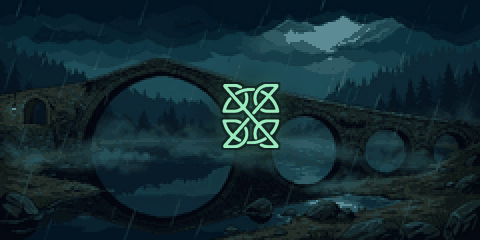
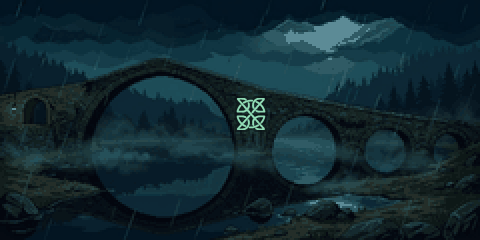
Icona Vortex, simbolo ponte sogno inciso, Mia senza versi di Nick e miagolio piu forte, rumori officina caotici; build 18 nov 19:10

Changed region(s): [[0.4375, 0.3208, 0.5938, 0.6417]]

diff --git a/js/scena-capitolo2.js b/js/scena-capitolo2.js
@@ -129,17 +129,18 @@ function stella(gg,x,y,k){   // luccichio: croce di luce che pulsa
 const MIA={fatto:false};
 function vaiLibero(m,x,y){return new Promise(r=>{m.path=[[x,y]];m.arrivo=null;const iv=setInterval(()=>{if(!m.path.length){clearInterval(iv);r()}},60)})}
 /* (17 nov) quando Mia miagola Nick si toglie il cappello e si gratta la testa (pose cap_1..5 dall'atlante) */
-function gagCappello(s){const p=s.giocatore;if(!p||!p.has||!p.has('cap_1'))return;
+function gagCappello(s,muto){const p=s.giocatore;if(!p||!p.has||!p.has('cap_1'))return;
   p.fermaCamminata&&p.fermaCamminata(false);p.dir='S';p.axe=false;p.state='act';
   p.seq=[['cap_1',.55],['cap_2',.5],['cap_3',.42],['cap_4',.42],['cap_3',.42],['cap_2',.42],['cap_4',.42],['cap_5',.7],['#',0]];p.si=0;p.st=0;
+  if(muto)return;   // con Mia Nick non emette versi: si sente solo il miagolio
   FIATO.suona('protagonista-esterno','sorpresa',1,1);setTimeout(()=>FIATO.suona('protagonista-esterno','dubbio',1,.9),1500)}
 async function passaMia(s){
   const m=s.attori&&s.attori.mia;if(!m){MIA.fatto=true;return}
   m.x=262;m.y=116;m.dir='W';m.corsa=false;m.vel=22;m.visibile=true;
   await vaiLibero(m,122,116);                       // attraversa fino al centro
   m.dir='S';await pausa(.7);                        // si gira verso chi guarda
-  try{A.motore.suonaClip('audio/versi/miao_mia_v3.mp3')}catch(e){}
-  gagCappello(s);
+  try{A.motore.suonaClip('audio/versi/miao_mia_v4.mp3',1.2)}catch(e){}
+  gagCappello(s,true);
   m.talking=true;const iv=setInterval(()=>{m.bocca=1+Math.floor(Math.random()*4)},120);await pausa(1.4);clearInterval(iv);m.talking=false;m.bocca=1;
   await pausa(.6);m.dir='W';
   await vaiLibero(m,-40,116);m.visibile=false;MIA.fatto=true}
@@ -285,7 +286,7 @@ function disegnaFurgone(gg,s){
    - smerigliatrice: rumore largo e acuto con scintille; cricchetto: serie di scatti; lamiere e utensili che cadono
    forte=true: il primo, fragoroso. */
 function rumoriAttrezzi(dur,forte){
-  const T=A.tone,N=A.nburst,R_=Math.random,vf=forte?1:.5;
+  const T=A.tone,N=A.nburst,R_=Math.random,vf=forte?1.9:.5;   // (18 nov) forte = fragore caotico da officina
   const clang=(pan,v)=>{N(2500+R_()*2500,.6,.03,.8*v*vf,'highpass',pan,.2);for(const f of [680+R_()*400,1450+R_()*600,2900+R_()*900])N(f,22,.12+R_()*.1,.5*v*vf,'bandpass',pan,.25);T(70,.12,'sine',.35*v*vf,38,pan,.1)};
   const maglio=(pan)=>{clang(pan,1);if(forte)setTimeout(()=>clang(-pan,.5),70)};
   const trapano=(pan)=>{for(let i=0;i<10;i++)setTimeout(()=>{T(150+R_()*20,.07,'square',.1*vf,170,pan,.1);N(1800+R_()*900,1.2,.07,.28*vf,'bandpass',pan,.1)},i*70)};
@@ -294,7 +295,7 @@ function rumoriAttrezzi(dur,forte){
   const lamiera=(pan)=>{N(1100,.7,.35,.35*vf,'bandpass',pan,.35);for(let i=0;i<7;i++)setTimeout(()=>N(1200+R_()*3000,12,.06,.4*vf,'bandpass',pan,.3),i*60+R_()*30)};
   const cadutaUtensile=(pan)=>{clang(pan,.6);setTimeout(()=>clang(pan,.35),130);setTimeout(()=>clang(pan,.2),250)};
   const fondo=()=>{for(let k=0;k<Math.ceil(dur/.45);k++)setTimeout(()=>{N(110+R_()*30,.7,.6,.22*vf,'lowpass',0,.1)},k*450)};fondo();   // brontolio di fondo dell'officina
-  let t=.1,ritmo=forte?.45:.6;
+  const corsia=(t0,r0)=>{let t=t0,ritmo=r0;
   while(t<dur){const r=R_(),pan=(R_()*2-1)*.35;
     if(r<.42){const n=forte?3+Math.floor(R_()*4):2+Math.floor(R_()*2);for(let q=0;q<n;q++)setTimeout(()=>maglio(pan),(t+q*ritmo*.6)*1000);t+=n*ritmo*.6+.2}
     else if(r<.6){setTimeout(()=>trapano(pan),t*1000);t+=.85}
@@ -302,7 +303,8 @@ function rumoriAttrezzi(dur,forte){
     else if(r<.82){setTimeout(()=>cricchetto(pan),t*1000);t+=.6}
     else if(r<.92){setTimeout(()=>cadutaUtensile(pan),t*1000);t+=.6}
     else{setTimeout(()=>lamiera(pan),t*1000);t+=.6}
-    ritmo=Math.max(.3,ritmo*.97)}}
+    ritmo=Math.max(.2,ritmo*.97)}};
+  corsia(.1,forte?.32:.6);if(forte){corsia(.25,.27);corsia(.4,.37);setTimeout(()=>{for(let i=0;i<5;i++)setTimeout(()=>cadutaUtensile((R_()*2-1)*.5),i*220)},dur*500)}}
 /* Nick di spalle che prende il fusibile (pose nuove nick_fusibile_r1: 0 fermo, 1 mano aperta, 2 con il fusibile): disegnato al posto dello sprite normale, stessa scala e stessi piedi */
 function disegnaNickFusibile(gg,s){const p=s.giocatore,im=PONTE.nickF;if(!p||PONTE.nf<0||!(im.complete&&im.naturalWidth))return;
   const sc=p.scala()/RS,dw=124*sc,dh=130*sc;ell(p.x,p.y,dw*.2,Math.max(1,dh*.035),'#000',.38);
@@ -543,7 +545,8 @@ async function CAPRA_FUSIBILE(s,p){   // il fusibile viene inserito nel Flusso C
     await p.vaiA(14,116,false,'E');p.dir='E';A.removeItem('fusibile');C2.fusibile=false;
     p.state='act';p.seq=[['reach',1.1],['#',0]];p.si=0;p.st=0;await pausa(.55);
     A.tone(900,.05,'square',.05,520,.3,.3);A.nburst(3200,6,.03,.05,'bandpass',.3,.3);await pausa(.25);A.tone(130,.18,'sawtooth',.04,60,.3,.3);
-    CAPS.on=true;ronzio();await pausa(1.2);p.state='idle';p.dir='E'});
+    CAPS.on=true;ronzio();if(window.musicaMacchinario)try{window.musicaMacchinario()}catch(e){}   // (18 nov) PUNTO DI INNESTO della musichetta (da descrivere)
+    await pausa(1.2);p.state='idle';p.dir='E'});
   CAPS.busy=false}
 registraScena({
   id:'c2-capra',inventario:true,sfondo:'img/scene/ponte-diavolo-var5.png',

diff --git a/index.html b/index.html
@@ -6,17 +6,17 @@
 <meta name="apple-mobile-web-app-capable" content="yes">
 <meta name="mobile-web-app-capable" content="yes">
 <meta name="apple-mobile-web-app-status-bar-style" content="black-translucent">
-<meta name="apple-mobile-web-app-title" content="Mistero">
+<meta name="apple-mobile-web-app-title" content="Vortex">
 <meta name="theme-color" content="#000000">
 <script>/* (12 nov) pulizia: a ogni versione nuova si tolgono service worker e memoria vecchi e si ricarica una volta.
    Un service worker rimasto da versioni precedenti serviva script e indice delle voci superati (le voci non si sentivano). BUILD0 lo aggiorna pubblica.py. */
-(function(){var BUILD0='18 nov 18:40';try{if(!('serviceWorker' in navigator)||localStorage.getItem('mistero-build')===BUILD0)return;localStorage.setItem('mistero-build',BUILD0);window.__pulizia=1;
+(function(){var BUILD0='18 nov 19:10';try{if(!('serviceWorker' in navigator)||localStorage.getItem('mistero-build')===BUILD0)return;localStorage.setItem('mistero-build',BUILD0);window.__pulizia=1;
  var t=setTimeout(function(){location.reload()},4000);
  Promise.all([navigator.serviceWorker.getRegistrations().then(function(rs){return Promise.all(rs.map(function(r){return r.unregister()}))}),
    window.caches?caches.keys().then(function(ks){return Promise.all(ks.map(function(k){return caches.delete(k)}))}):0]).then(function(){clearTimeout(t);location.reload()},function(){clearTimeout(t);location.reload()})}catch(e){}})();</script>
 <link rel="manifest" href="manifest.webmanifest">
-<link rel="apple-touch-icon" href="apple-touch-icon.png">
-<title>Mistero</title>
+<link rel="apple-touch-icon" href="apple-touch-icon-vortex.png">
+<title>Vortex</title>
 <style>
 *{box-sizing:border-box;-webkit-tap-highlight-color:transparent;-webkit-user-select:none;user-select:none;-webkit-touch-callout:none;touch-action:manipulation}
 html{-webkit-text-size-adjust:100%;text-size-adjust:100%}
@@ -81,11 +81,11 @@ button:active{background:#1a2438;transform:translate(1px,1px)}
 <div id="probe" style="position:fixed;visibility:hidden;pointer-events:none;padding:env(safe-area-inset-top) env(safe-area-inset-right) env(safe-area-inset-bottom) env(safe-area-inset-left)"></div>
 <div id="rot"><i></i><div>RUOTA IL TELEFONO<br>IN ORIZZONTALE</div></div>
 
-<script src="js/motore.js?v=18nov1840"></script>
-<script src="js/scena-demo.js?v=18nov1840"></script>
-<script src="js/scena-tutti.js?v=18nov1840"></script>
-<script src="js/scena-ramones.js?v=18nov1840"></script>
-<script src="js/scena-capitolo2.js?v=18nov1840"></script>
+<script src="js/motore.js?v=18nov1910"></script>
+<script src="js/scena-demo.js?v=18nov1910"></script>
+<script src="js/scena-tutti.js?v=18nov1910"></script>
+<script src="js/scena-ramones.js?v=18nov1910"></script>
+<script src="js/scena-capitolo2.js?v=18nov1910"></script>
 <script>
 (()=>{
 "use strict";
@@ -2149,11 +2149,11 @@ document.addEventListener('wheel',e=>{if(e.ctrlKey)e.preventDefault()},{passive:
 document.addEventListener('visibilitychange',()=>{if(document.hidden){if(SILENT_EL)SILENT_EL.pause()}else if(AU.ctx)unmuteSilentSwitch();if(AU.ctx){if(document.hidden)AU.ctx.suspend();else AU.ctx.resume()}});
 
 /* aggiornamento automatico: se sul server c'e' una versione piu' nuova di questa, ricarica una volta (cancella anche le copie salvate) */
-const BUILD='18 nov 18:40';
+const BUILD='18 nov 19:10';
 {const ve=document.getElementById('ver');if(ve)ve.textContent='v. '+BUILD;
  if(location.protocol.startsWith('http')){
   fetch(location.pathname+'?nc='+Date.now(),{cache:'no-store'}).then(r=>r.ok?r.text():'').then(t=>{
-    const m=t.match(/const BUILD='([^']+)'/);if(!m||m[1]===BUILD)return;
+    const m=t.match(/const BUILD='18 nov 19:10']+)'/);if(!m||m[1]===BUILD)return;
     try{if(sessionStorage.getItem('upd')===m[1])return;sessionStorage.setItem('upd',m[1])}catch(e){}
     const regs=navigator.serviceWorker&&navigator.serviceWorker.getRegistrations?navigator.serviceWorker.getRegistrations().then(rs=>Promise.all(rs.map(r=>r.update()))):Promise.resolve();
     regs.catch(()=>{}).then(()=>window.caches&&caches.keys?caches.keys().then(ks=>Promise.all(ks.map(k=>caches.delete(k)))):0).catch(()=>{}).then(()=>location.reload())}).catch(()=>{})}}

diff --git a/sw.js b/sw.js
@@ -1,11 +1,11 @@
 // Service worker: il gioco funziona offline.
 // - i file del gioco (immagini, audio, icone) sono salvati alla prima apertura (sempre scaricati freschi: cache reload) e serviti dalla memoria del telefono;
 // - la pagina, gli script (.js), gli indici (.json) e questo file si chiedono prima alla rete (cosi' gli aggiornamenti arrivano subito) e, senza rete, si usa la copia salvata.
-const VERSION = "18 nov 18:40";
+const VERSION = "18 nov 19:10";
 const CACHE = "mistero-" + VERSION;
 const FILES = [
   "./",
-  "apple-touch-icon.png",
+  "apple-touch-icon-vortex.png",
   "audio/effetti/indice.json",
   "audio/effetti/ramone-1-057be5bb.mp3",
   "audio/effetti/ramone-1-3e2102d6.mp3",
@@ -497,9 +497,9 @@ const FILES = [
   "audio/versi/bela_v2.mp3",
   "audio/versi/lara_ehila_r1.mp3",
   "audio/versi/miao_khora_v2.mp3",
-  "audio/versi/miao_mia_v3.mp3",
-  "icon-192.png",
-  "icon-512.png",
+  "audio/versi/miao_mia_v4.mp3",
+  "icona-vortex-192.png",
+  "icona-vortex-512.png",
   "img/char-r19/anna-senza-giacca.json",
   "img/char-r19/anna-senza-giacca.png",
   "img/char-r19/anna.json",

diff --git a/js/scena-tutti.js b/js/scena-tutti.js
@@ -69,7 +69,7 @@ function verso(tipo,f0){
   o.connect(f1);f1.connect(gn);gn.connect(AU.master);o.start(t);lfo.start(t);o.stop(t+d+.05);lfo.stop(t+d+.05);return d}
 
 /* versi veri (registrazioni libere di Wikimedia Commons, in audio/versi); se non si caricano resta il verso sintetizzato */
-const VERSI={khora:['miao_khora_v2'],mia:['miao_mia_v3'],capra:['bela_v2']};
+const VERSI={khora:['miao_khora_v2'],mia:['miao_mia_v4'],capra:['bela_v2']};
 let versoAttuale=null;   // un solo verso alla volta: quello nuovo ferma sempre il precedente
 function versoReale(nome){
   const l=VERSI[nome];if(!l||AU.muted)return Promise.resolve(null);
